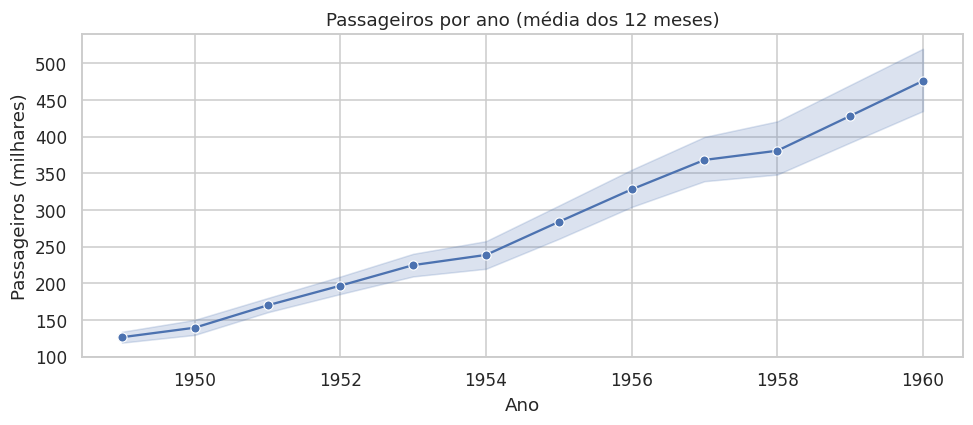
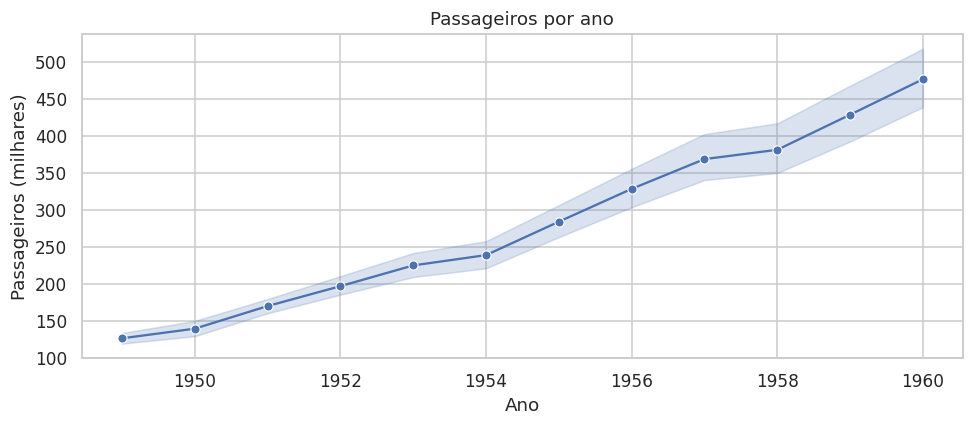
graficos

diff --git a/Zepequeno/exercicios_seaborn_datasets.py b/Zepequeno/exercicios_seaborn_datasets.py
@@ -40,6 +40,15 @@ exercicio = sns.load_dataset("exercise")  # pulsação de 30 pessoas em 3 moment
 
 sns.set_theme(style="whitegrid")
 
+pasta_graficos = Path(__file__).parent / "graficos_seaborn" / "datasets"
+pasta_graficos.mkdir(parents=True, exist_ok=True)
+
+def mostrar_grafico(nome_arquivo):
+    """Salva o gráfico atual em graficos_seaborn/datasets e exibe na tela."""
+    plt.tight_layout()
+    plt.savefig(pasta_graficos / nome_arquivo, dpi=110, bbox_inches="tight")
+    plt.show()
+    plt.close("all")
 
 # #####################################################################
 # AULA 1 — GRÁFICOS BÁSICOS: LINHA, BARRA E DISPERSÃO (slide 21)
@@ -51,27 +60,42 @@ sns.set_theme(style="whitegrid")
 # =====================================================================
 
 # a) Linha de passageiros por ano (exemplo resolvido)
+
 print(voos.head())
 plt.figure(figsize=(9, 4))
 sns.lineplot(data=voos, x="year", y="passengers", marker="o")
 plt.title("Passageiros por ano")
 plt.xlabel("Ano")
 plt.ylabel("Passageiros (milhares)")
-plt.tight_layout()
-plt.show()
+mostrar_grafico("ex1a_voos_linha.png")
+
 # Resposta: cada ano tem 12 linhas na tabela (uma por mês). O que o ponto de
 #           cada ano representa? E a faixa sombreada em volta da linha?
 
 # b) Refaça mostrando o TOTAL de passageiros do ano, sem a faixa sombreada.
 #    Dica: estimator="sum" e errorbar=None
 #    Confira: 1949 = 1.520 | 1960 = 5.714
-# Seu código aqui
-
+plt.figure(figsize=(9, 4))
+sns.lineplot(data=voos, x="year", y="passengers", estimator="sum", errorbar=None, marker="o" color="#ffffff")
+plt.title("Total de passageiros por ano")
+plt.xlabel("Ano")
+plt.ylabel("Passageiros (milhares)")
+mostrar_grafico("ex1b_voos_total.png")
+total_ano = voos.groupby("year")["passengers"].sum()
+print(f"Total 1949: {total_ano[1949]:,} | 1960: {total_ano[1960]:,}")
 
 # c) Faça uma linha por mês (hue="month"). Use palette="flare" e coloque a
 #    legenda fora do gráfico: plt.legend(bbox_to_anchor=(1.01, 1), loc="upper left")
 #    Confira: o mês com mais passageiros em média é Jul.
-# Seu código aqui
+plt.figure(figsize=(10, 5))
+sns.lineplot(data=voos, x="year", y="passengers", hue="month", palette="dark")
+plt.title("Passageiros por ano, uma linha por mês")
+plt.xlabel("Ano")
+plt.ylabel("Passageiros (milhares)")
+plt.legend(title="Mês", bbox_to_anchor=(1.01, 1), loc="upper left")
+mostrar_grafico("ex1c_voos_mes.png")
+pico = voos.groupby("month", observed=True)["passengers"].mean().idxmax()
+print("Mês com mais passageiros em média:", pico)
 
 # Resposta: além do crescimento, que padrão se repete todo ano?
 
@@ -83,21 +107,40 @@ plt.show()
 # a) Faça um barplot da massa corporal (body_mass_g) por espécie (species),
 #    com título e rótulos.
 #    Confira: Adelie 3.700,66 | Chinstrap 3.733,09 | Gentoo 5.076,02
-# Seu código aqui
+plt.figure(figsize=(7, 4))
+sns.barplot(data=pinguins, x="species", y="body_mass_g")
+plt.title("Massa corporal média por espécie")
+plt.xlabel("Espécie")
+plt.ylabel("Massa corporal (g)")
+mostrar_grafico("ex2a_pinguins_barra.png")
+print(pinguins.groupby("species")["body_mass_g"].mean())
 
 # Resposta: qual espécie é a mais pesada? A barra mostra a soma ou a média?
 #           O que é o traço preto no topo de cada barra?
 
 # b) Separe por sexo com hue="sex" e tire o traço preto (errorbar=None).
 #    Confira: Gentoo macho 5.484,84 g
-# Seu código aqui
+plt.figure(figsize=(7, 4))
+sns.barplot(data=pinguins, x="species", y="body_mass_g", hue="sex", errorbar=None)
+plt.title("Massa corporal média por espécie e sexo")
+plt.xlabel("Espécie")
+plt.ylabel("Massa corporal (g)")
+mostrar_grafico("ex2b_pinguins_sexo.png")
+print(pinguins.groupby(["species", "sex"])["body_mass_g"].mean())
 
 # Resposta: o macho é mais pesado em todas as espécies?
 
 # c) Quantos pinguins de cada espécie há em cada ilha? Use sns.countplot com
 #    x="island" e hue="species".
 #    Confira: Biscoe 168 | Dream 124 | Torgersen 52
-# Seu código aqui
+ordem = pinguins["island"].value_counts().index
+plt.figure(figsize=(7, 4))
+sns.countplot(data=pinguins, x="island", hue="species", order=ordem)
+plt.title("Quantidade de pinguins por ilha e espécie")
+plt.xlabel("Ilha")
+plt.ylabel("Quantidade")
+mostrar_grafico("ex2c_pinguins_ilha.png")
+print(pd.crosstab(pinguins["island"], pinguins["species"]))
 
 # Resposta: por que o countplot não precisa de y? Alguma espécie vive em uma
 #           ilha só?
@@ -111,7 +154,14 @@ plt.show()
 #    massa corporal (body_mass_g, eixo y). Calcule a correlação.
 #    Dica: pinguins["flipper_length_mm"].corr(pinguins["body_mass_g"])
 #    Confira: 0,87
-# Seu código aqui
+plt.figure(figsize=(7, 5))
+sns.scatterplot(data=pinguins, x="flipper_length_mm", y="body_mass_g")
+plt.title("Comprimento da nadadeira x massa corporal")
+plt.xlabel("Nadadeira (mm)")
+plt.ylabel("Massa corporal (g)")
+mostrar_grafico("ex3a_pinguins_dispersao.png")
+r = pinguins["flipper_length_mm"].corr(pinguins["body_mass_g"])
+print(f"Correlação nadadeira x massa: {r:.2f}")
 
 # Resposta: existe relação? Ela é positiva ou negativa, forte ou fraca?
 
@@ -119,7 +169,16 @@ plt.show()
 #    correlação dentro de cada espécie.
 #    Dica: for especie, grupo in pinguins.groupby("species"): ...
 #    Confira: Adelie 0,47 | Chinstrap 0,64 | Gentoo 0,70
-# Seu código aqui
+plt.figure(figsize=(8, 5))
+sns.scatterplot(data=pinguins, x="flipper_length_mm", y="body_mass_g", hue="species", 
+                size="bill_length_mm", alpha=0.7)
+plt.title("Nadadeira x massa por espécie (tamanho = bico)")
+plt.xlabel("Nadadeira (mm)")
+plt.ylabel("Massa corporal (g)")
+plt.legend(bbox_to_anchor=(1.01, 1), loc="upper left")
+mostrar_grafico("ex3b_pinguins_especie.png")
+for especie, grupo in pinguins.groupby("species"):
+    print(f"{especie}: {grupo['flipper_length_mm'].corr(grupo['body_mass_g']):.2f}")
 
 # Resposta: por que a correlação dentro de cada espécie é menor que a do total?
 
@@ -134,6 +193,7 @@ plt.show()
 # =====================================================================
 
 # a) Tips (slide 24, exemplo resolvido)
+'''
 corr_gorjetas = gorjetas.corr(numeric_only=True)
 print(corr_gorjetas)
 plt.figure(figsize=(5, 4))
@@ -141,6 +201,7 @@ sns.heatmap(corr_gorjetas, annot=True, cmap="coolwarm", center=0, linewidths=0.5
 plt.title("Matriz de correlação — Tips")
 plt.tight_layout()
 plt.show()
+'''
 # Resposta: conta e gorjeta andam juntas (0,68). Isso quer dizer que uma
 #           CAUSA a outra?
 

diff --git a/Zepequeno/exercicios_aed.py b/Zepequeno/exercicios_aed.py
@@ -404,7 +404,7 @@ print(f"Mediana sem os zeros: {sem_buracos['atingimento_pct'].median():.2f} %") 
 acima_150 = metas[metas["atingimento_pct"] > 150]
 print("Regional-mês acima de 150 %:", len(acima_150))
 print(acima_150.groupby("ano").size()) 
-
+'''
 # d) Calcule a meta média por ano e faça um boxplot do atingimento por ano
 #    (sem os zeros), com uma linha em 100 %: plt.axhline(100, color="red")
 #    Confira: 2022 6.072 | 2023 16.736 | 2024 10.083 | 2025 7.649 | 2026 16.100
@@ -417,7 +417,7 @@ plt.show()
 # Resposta: 2025 foi um ano excelente? Que hipótese você levaria ao gestor?
 # Hipótese para levar ao gestor: em 2025 as metas foram definidas muito abaixo
 # do histórico, por isso tantos meses passam de 150 %. Não é um "ano excelente".
-'''
+
 # =====================================================================
 # EXERCÍCIO 8 — Ferramentas de AED automatizada
 # Pergunta: o que a automação encontra sozinha e o que ela deixa passar?
